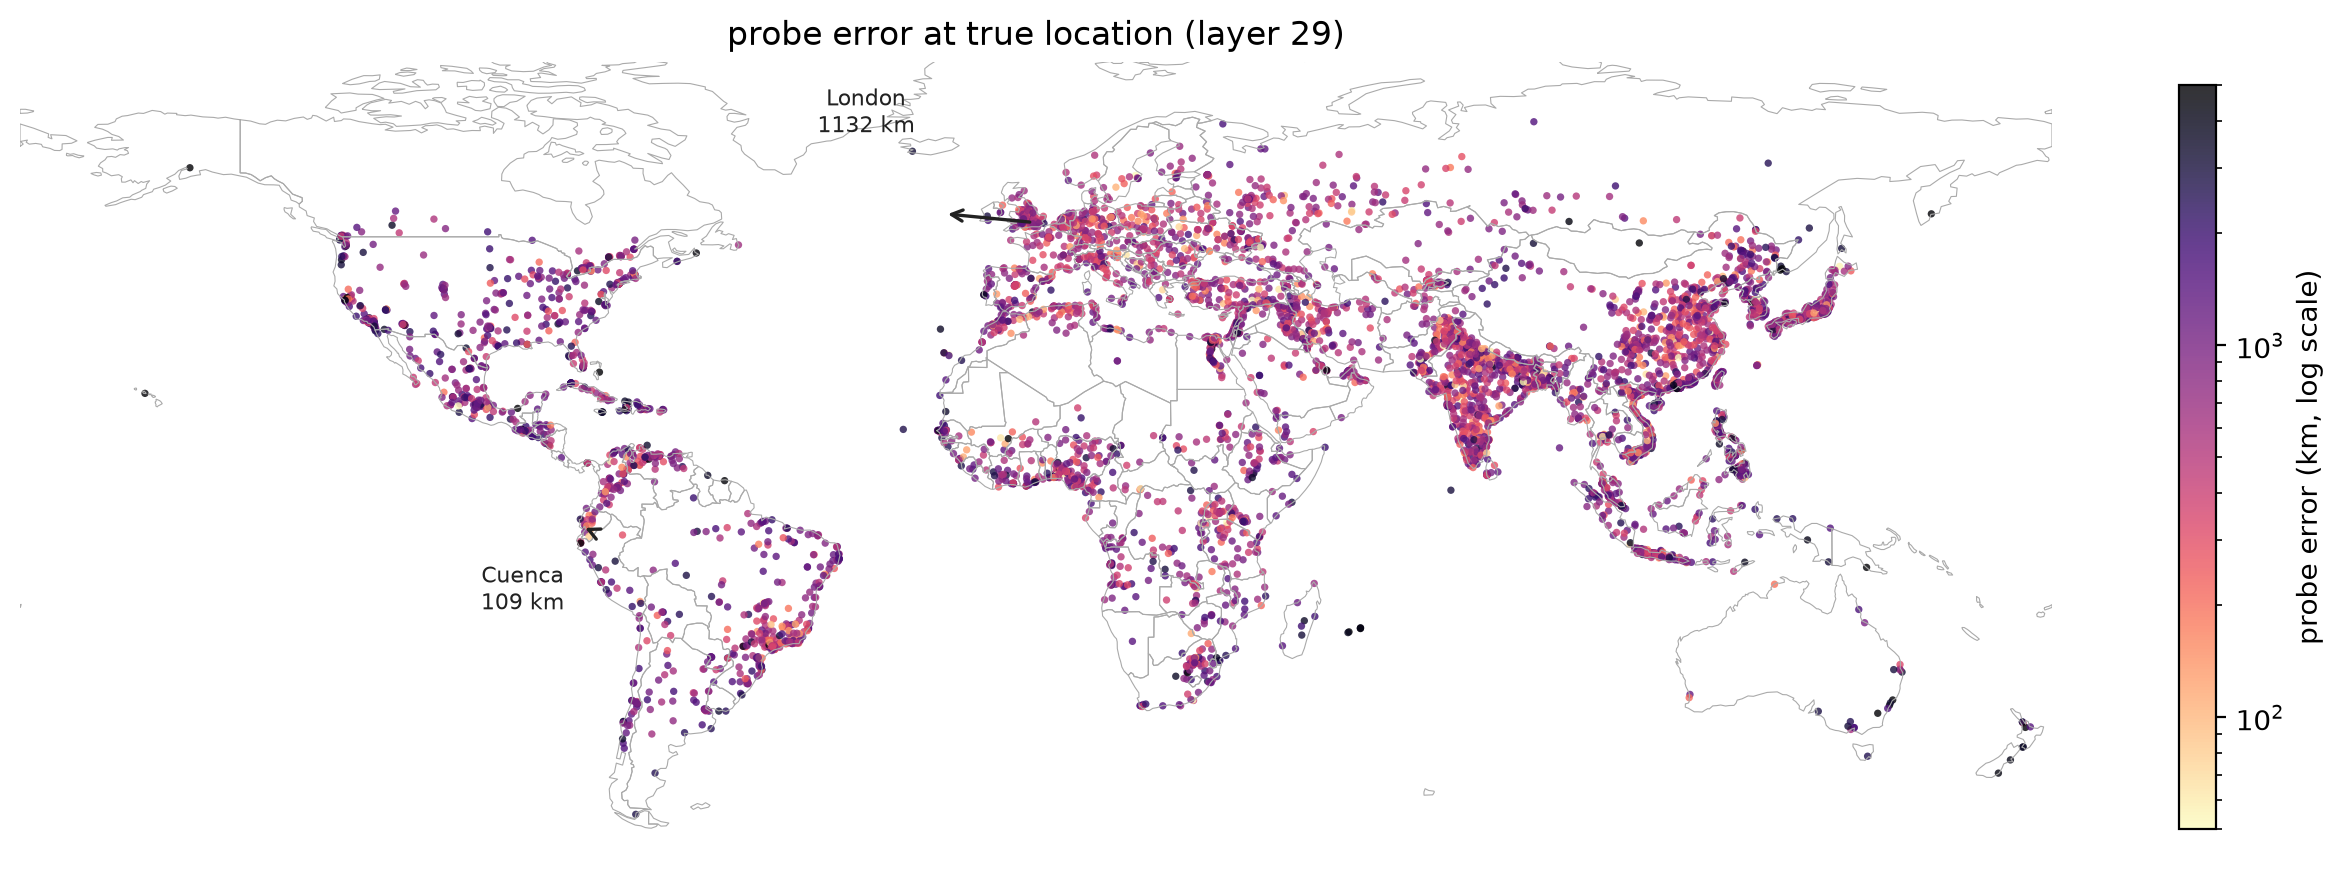
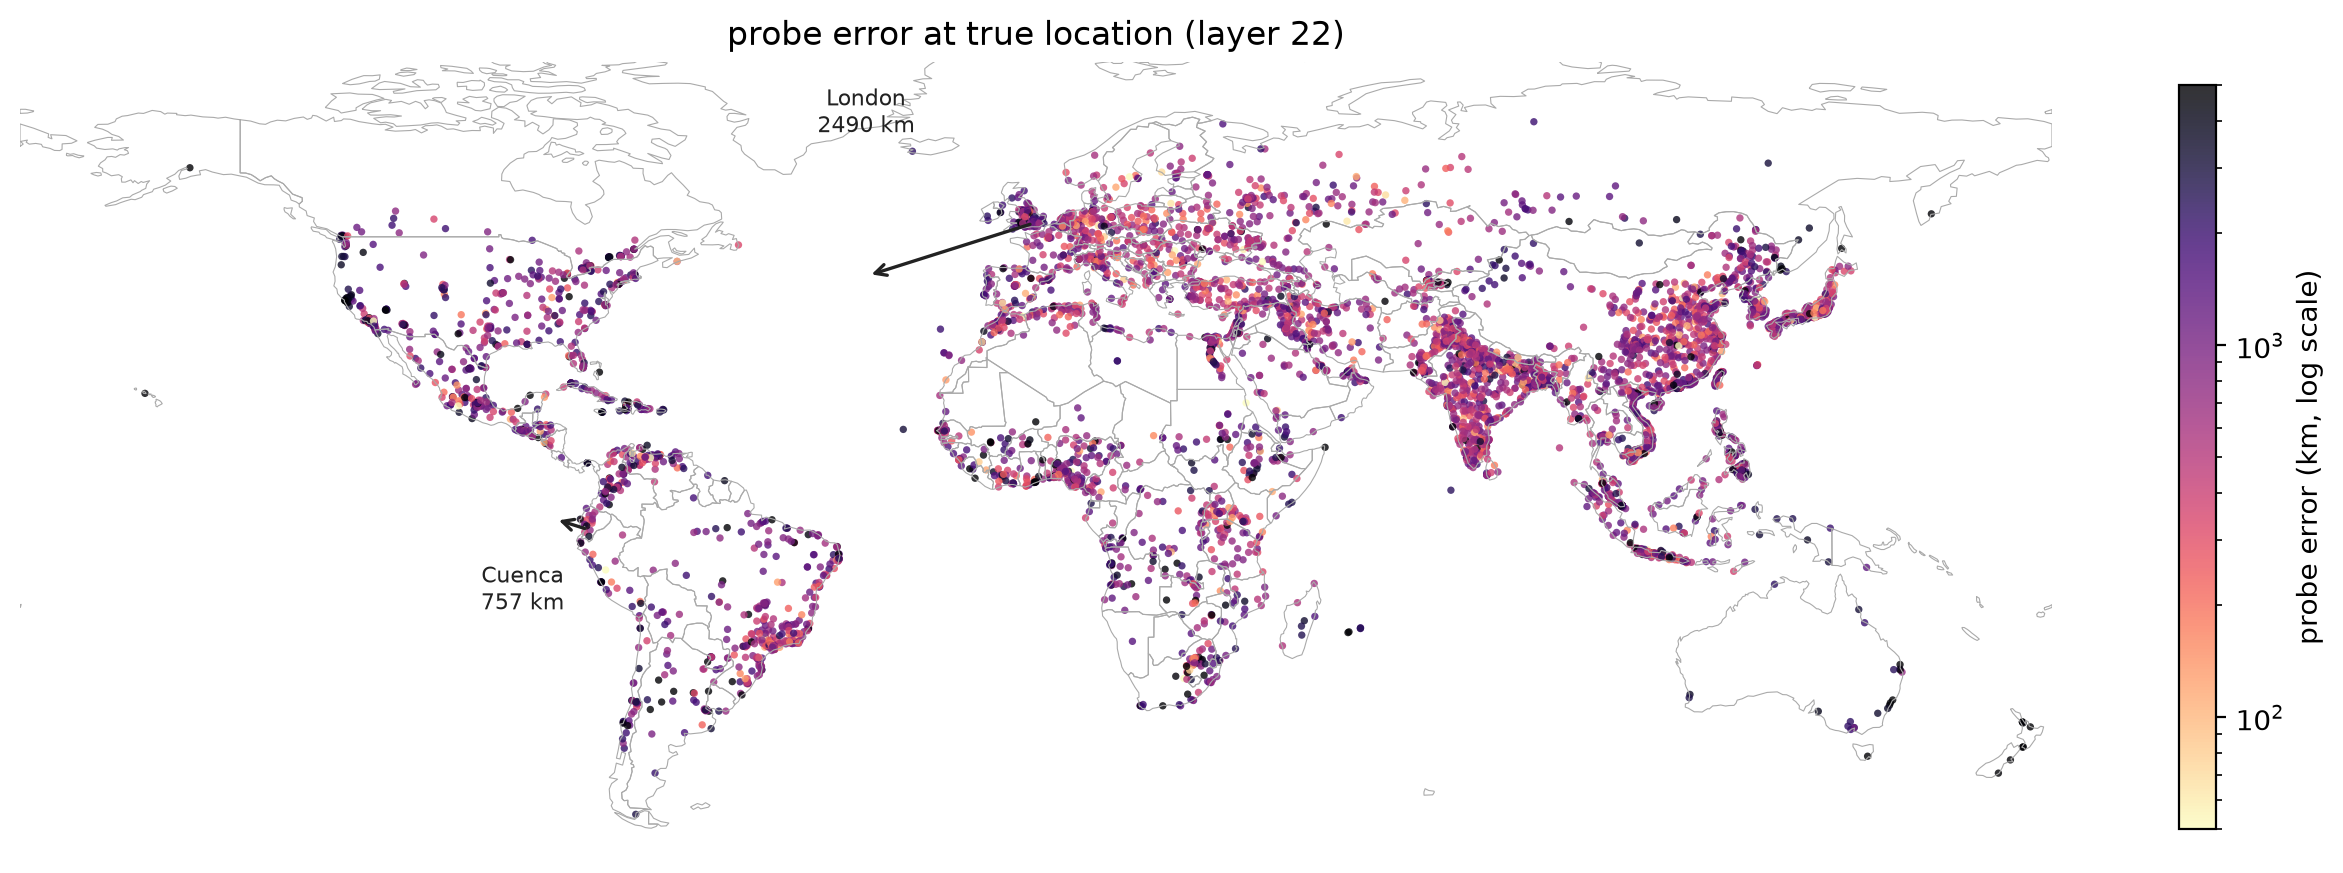
image caption update

diff --git a/_posts/2026-07-03-probing-geographic-world-model.md b/_posts/2026-07-03-probing-geographic-world-model.md
@@ -234,10 +234,10 @@ The CIs are bootstrap intervals on the median.
 <figure>
   <img src="/assets/geollm_bias_map.png" alt="Per-city probe error plotted at true locations">
   <figcaption><small><b>Fig. 5.</b> Per-city out-of-fold probe error at
-  true locations, log colour scale. Prompt: <code>In {country}, the city
-  of {name}</code>, layer 29. Arrows show the displacement of two
-  example predictions: London (1,132 km) and Cuenca
-  (109 km).</small></figcaption>
+  true locations, log colour scale. Prompt: <code>The city of
+  {name}</code>, layer 22. Arrows show the displacement of two
+  example predictions: London (2,490 km) and Cuenca
+  (757 km).</small></figcaption>
 </figure>
 
 This continent-level ordering is at least partly consistent with the training-data coverage
